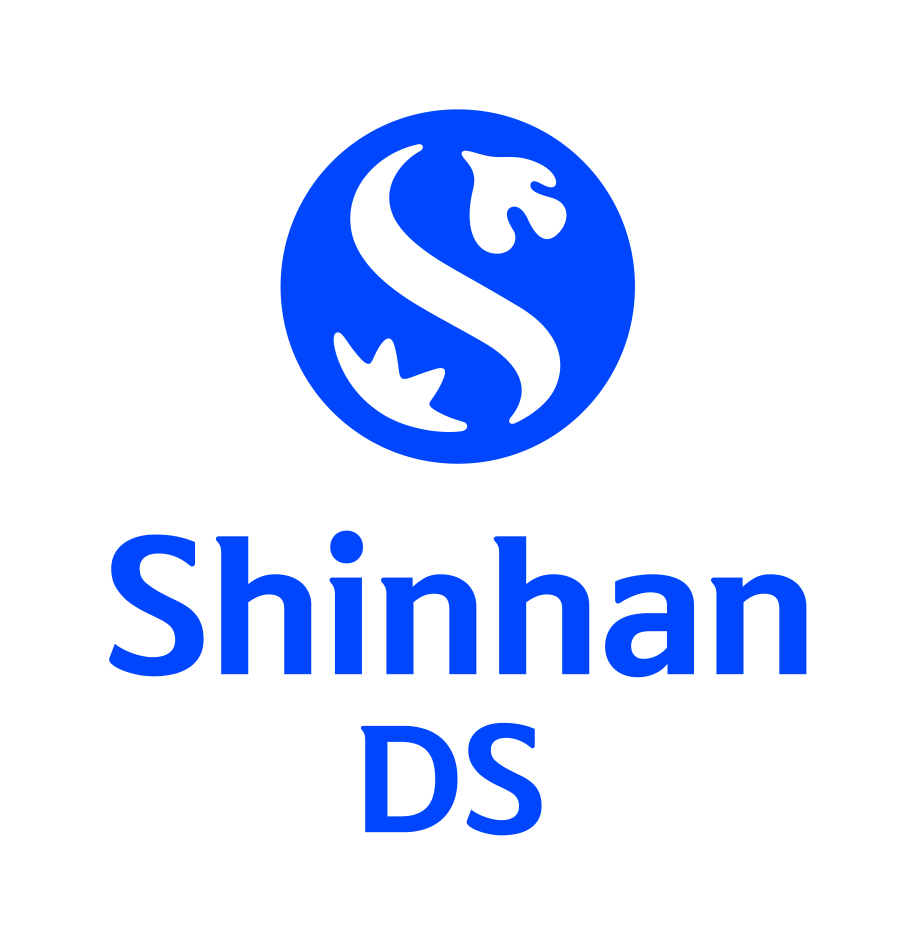
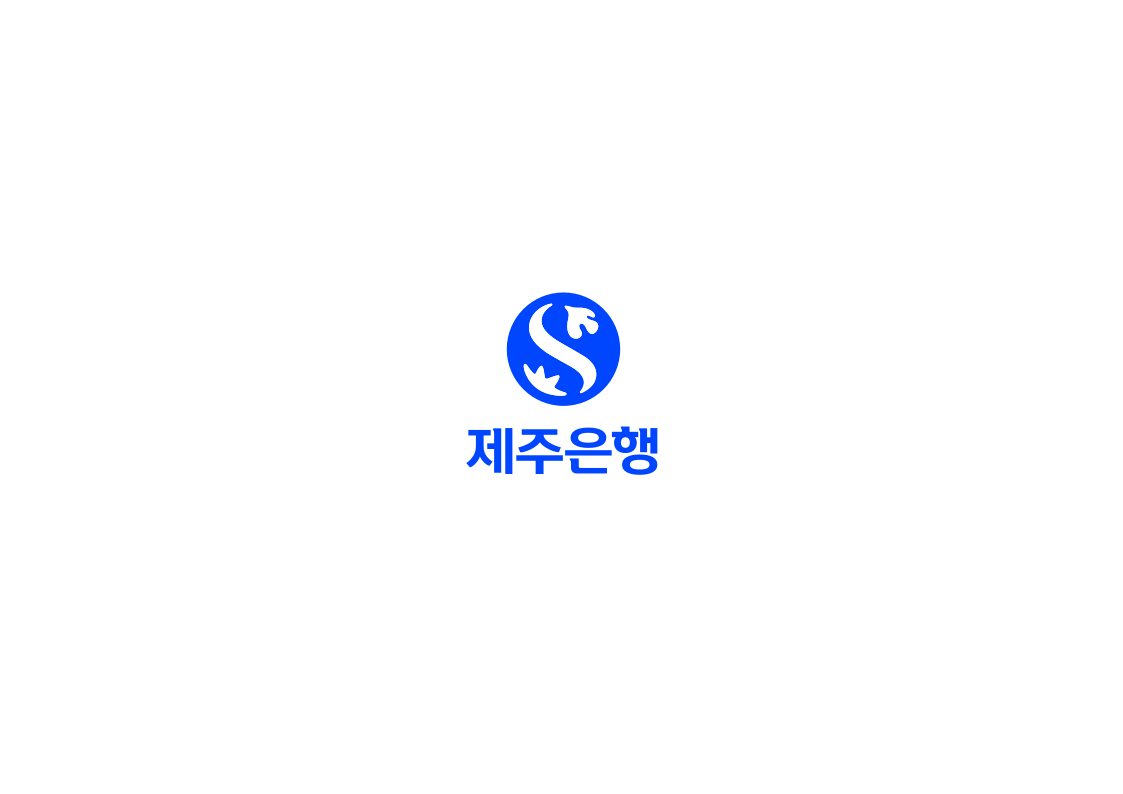
add markdown link modal, modify webui name 제주은행

Changed region(s): [[0.1224, 0.0907, 0.8874, 0.7254], [0.3978, 0.7557, 0.612, 0.9068]]

diff --git a/src/lib/components/chat/Messages/Markdown/Modal.svelte b/src/lib/components/chat/Messages/Markdown/Modal.svelte
@@ -1,0 +1,88 @@
+<script>
+	import { createEventDispatcher } from 'svelte';
+	export let isOpen = false;
+	export let url = '';
+
+	const dispatch = createEventDispatcher();
+
+	const closeModal = () => {
+		dispatch('close');
+	};
+</script>
+
+{#if isOpen}
+	<div class="modal-overlay" on:click={closeModal} aria-hidden={!isOpen}>
+		<div class="modal-content" on:click|stopPropagation tabindex="0">
+			<img
+				src={url}
+				alt="첨부파일 로드 실패"
+				class="modal-image"
+				on:error={() => console.error('첨부파일 로딩 실패:', url)}
+			/>
+			<button class="close-button" on:click={closeModal} aria-label="Close Modal">&times;</button>
+		</div>
+	</div>
+{/if}
+
+<style>
+	.modal-overlay {
+		position: fixed;
+		top: 0;
+		left: 0;
+		width: 100%;
+		height: 100%;
+		display: flex;
+		justify-content: center;
+		align-items: center;
+		z-index: 1000;
+
+		/* 흐림 효과 */
+		backdrop-filter: blur(6px);
+		-webkit-backdrop-filter: blur(6px); /* Safari 호환성 */
+	}
+
+	.modal-content {
+		background: white;
+		padding: 1rem;
+		border-radius: 8px;
+		max-width: 90vw;
+		max-height: 90vh;
+		position: relative;
+		display: flex;
+		flex-direction: column;
+		justify-content: center;
+		align-items: center;
+
+		/* 얇은 경계선 효과 */
+		border: 1px solid rgba(255, 255, 255, 0.15);
+		outline: 2px solid rgba(0, 0, 0, 0.1);
+		box-shadow: 0 8px 24px rgba(0, 0, 0, 0.3);
+	}
+	.modal-image {
+		max-width: 100%;
+		max-height: 80vh;
+		object-fit: contain;
+		display: block;
+	}
+	@keyframes fadeIn {
+		from {
+			opacity: 0;
+			transform: scale(0.9);
+		}
+		to {
+			opacity: 1;
+			transform: scale(1);
+		}
+	}
+
+	.close-button {
+		position: absolute;
+		top: 10px;
+		right: 10px;
+		background: transparent;
+		color: black;
+		border: none;
+		font-size: 1.5rem;
+		cursor: pointer;
+	}
+</style>

diff --git a/src/lib/components/chat/Messages/ContentRenderer.svelte b/src/lib/components/chat/Messages/ContentRenderer.svelte
@@ -14,6 +14,7 @@
 	} from '$lib/stores';
 	import FloatingButtons from '../ContentRenderer/FloatingButtons.svelte';
 	import { createMessagesList } from '$lib/utils';
+	import Modal from './Markdown/Modal.svelte'; // 모달 창 추가
 
 	export let id;
 	export let content;
@@ -36,6 +37,10 @@
 	let contentContainerElement;
 
 	let floatingButtonsElement;
+
+	// 모달 상태 추가
+	let isModalOpen = false;
+	let modalUrl = '';
 
 	const updateButtonPosition = (event) => {
 		const buttonsContainerElement = document.getElementById(`floating-buttons-${id}`);
@@ -125,6 +130,13 @@
 			document.removeEventListener('keydown', keydownHandler);
 		}
 	});
+
+	// 모달 링크 클릭 이벤트
+	const handleLinkClick = (url) => {
+		modalUrl = url;
+		isModalOpen = true;
+		onSourceClick(url); // Ensure the export property is utilized
+	};
 </script>
 
 <div bind:this={contentContainerElement}>
@@ -165,7 +177,7 @@
 			// remove duplicates
 			return acc.filter((item, index) => acc.indexOf(item) === index);
 		}, [])}
-		{onSourceClick}
+		onSourceClick={(url) => handleLinkClick(url)}
 		{onTaskClick}
 		{onSave}
 		onUpdate={(token) => {
@@ -190,6 +202,9 @@
 		}}
 	/>
 </div>
+
+<!-- 모달 창 추가 -->
+<Modal isOpen={isModalOpen} url={modalUrl} on:close={() => (isModalOpen = false)} />
 
 {#if floatingButtons && model}
 	<FloatingButtons

diff --git a/src/lib/components/chat/Messages/Markdown/MarkdownInlineTokens.svelte b/src/lib/components/chat/Messages/Markdown/MarkdownInlineTokens.svelte
@@ -29,12 +29,19 @@
 	{:else if token.type === 'html'}
 		<HtmlToken {id} {token} {onSourceClick} />
 	{:else if token.type === 'link'}
+		<!-- 마크다운 형태 응답에서 링크 모달로 처리하기 -->
 		{#if token.tokens}
-			<a href={token.href} target="_blank" rel="nofollow" title={token.title}>
+			<a href={token.href} on:click={(event) => {
+				event.preventDefault(); // Prevent default behavior
+				onSourceClick(token.href); // Trigger modal opening
+			}} title={token.title}>
 				<svelte:self id={`${id}-a`} tokens={token.tokens} {onSourceClick} {done} />
 			</a>
 		{:else}
-			<a href={token.href} target="_blank" rel="nofollow" title={token.title}>{token.text}</a>
+			<a href={token.href} on:click={(event) => {
+				event.preventDefault(); // Prevent default behavior
+				onSourceClick(token.href); // Trigger modal opening
+			}} title={token.title}>{token.text}</a>
 		{/if}
 	{:else if token.type === 'image'}
 		<Image src={token.href} alt={token.text} />

diff --git a/src/app.html b/src/app.html
@@ -20,7 +20,7 @@
 		<link
 			rel="search"
 			type="application/opensearchdescription+xml"
-			title="신한 DS ChatBot"
+			title="제주은행 지식 베이스 챗봇"
 			href="/opensearch.xml"
 		/>
 		<script src="/static/loader.js" defer></script>

diff --git a/backend/open_webui/env.py b/backend/open_webui/env.py
@@ -110,7 +110,7 @@ log.setLevel(SRC_LOG_LEVELS["CONFIG"])
 # WEBUI_NAME = os.environ.get("WEBUI_NAME", "Open WebUI")
 # if WEBUI_NAME != "Open WebUI":
 #     WEBUI_NAME += " (Open WebUI)"
-WEBUI_NAME = os.environ.get("WEBUI_NAME", "신한 DS ChatBot")
+WEBUI_NAME = os.environ.get("WEBUI_NAME", "제주은행 지식 베이스 챗봇")
 
 
 
